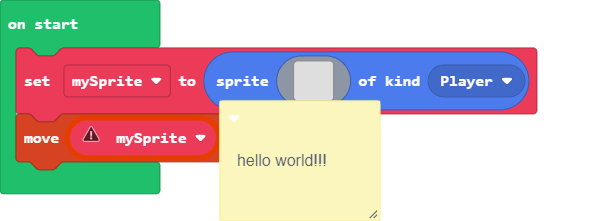
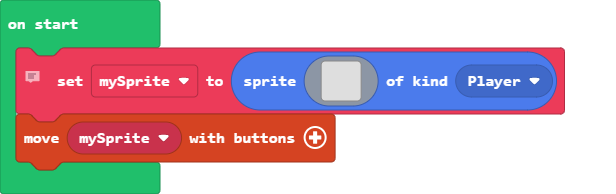
Update pxt.json, main.ts, main.blocks, images.g.jres, images.g.ts, blob.json

diff --git a/images.g.ts b/images.g.ts
@@ -1,0 +1,36 @@
+// Auto-generated code. Do not edit.
+namespace myImages {
+
+    helpers._registerFactory("image", function(name: string) {
+        switch(helpers.stringTrim(name)) {
+            case "image1":return img`
+. . . . . . . . . . . . . . . . 
+. . . . . . . . . . . . . . . . 
+. . . . . . . . . . . . . . . . 
+. . . . . . . . . . . . . . . . 
+. . . . . . . . . . . . . . . . 
+. . . . . . . . . . . . . . . . 
+. . . . . . . . . . . . . . . . 
+. . . . . . . . . . . . . . . . 
+. . . . . . . . . . . . . . . . 
+. . . . . . . . . . . . . . . . 
+. . . . . . . . . . . . . . . . 
+. . . . . . . . . . . . . . . . 
+. . . . . . . . . . . . . . . . 
+. . . . . . . . . . . . . . . . 
+. . . . . . . . . . . . . . . . 
+. . . . . . . . . . . . . . . . 
+`;
+        }
+        return null;
+    })
+
+    helpers._registerFactory("animation", function(name: string) {
+        switch(helpers.stringTrim(name)) {
+
+        }
+        return null;
+    })
+
+}
+// Auto-generated code. Do not edit.

diff --git a/main.ts b/main.ts
@@ -1,22 +1,3 @@
 /**
  * hello world!!!
  */
-let mySprite = sprites.create(img`
-    . . . . . . . . . . . . . . . . 
-    . . . . . . . . . . . . . . . . 
-    . . . . . . . . . . . . . . . . 
-    . . . . . . . . . . . . . . . . 
-    . . . . . . . . . . . . . . . . 
-    . . . . . . . . . . . . . . . . 
-    . . . . . . . . . . . . . . . . 
-    . . . . . . . . . . . . . . . . 
-    . . . . . . . . . . . . . . . . 
-    . . . . . . . . . . . . . . . . 
-    . . . . . . . . . . . . . . . . 
-    . . . . . . . . . . . . . . . . 
-    . . . . . . . . . . . . . . . . 
-    . . . . . . . . . . . . . . . . 
-    . . . . . . . . . . . . . . . . 
-    . . . . . . . . . . . . . . . . 
-    `, SpriteKind.Player)
-controller.moveSprite(mySprite)
